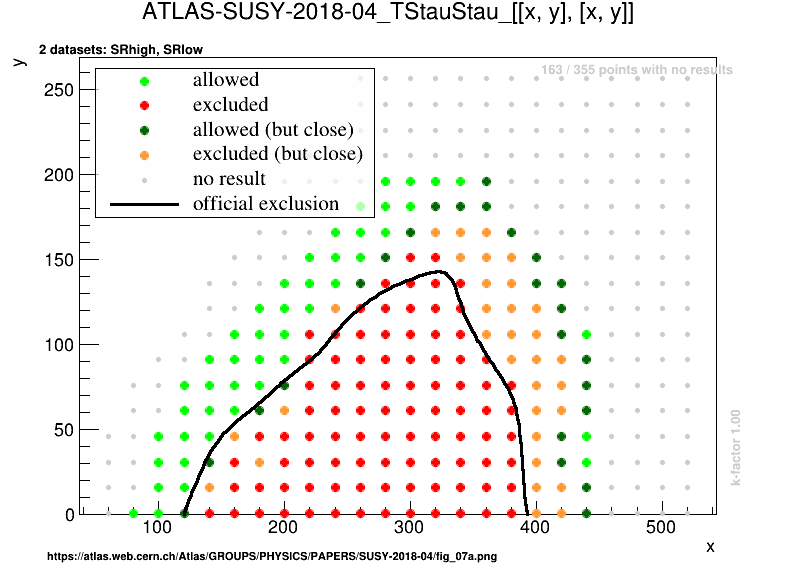
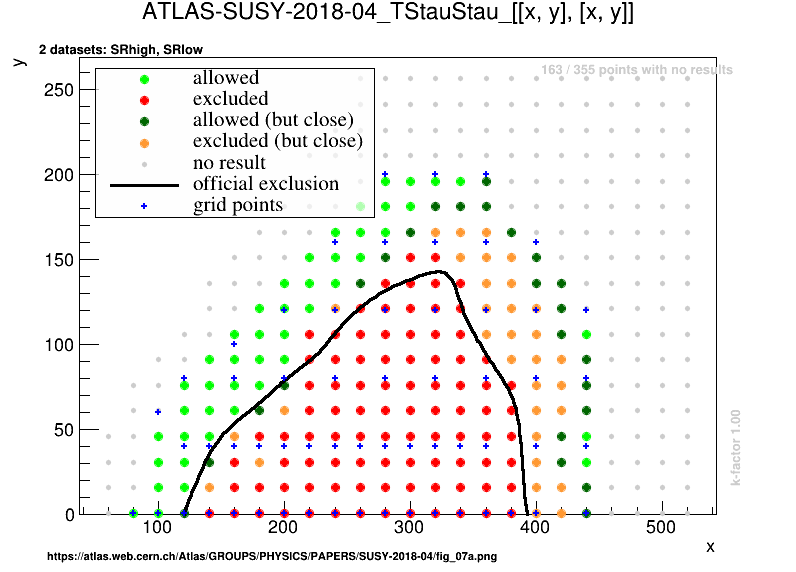
with grid points for eff maps

Changed region(s): [[0.2412, 0.1189, 0.4523, 0.3864], [0.1508, 0.1783, 0.2111, 0.3269], [0.1508, 0.3566, 0.2111, 0.3864]]

diff --git a/docs/Validation123pyhf.md b/docs/Validation123pyhf.md
@@ -36,4 +36,4 @@ The validation procedure for upper limit maps used here is explained in [arXiv:1
 | [ATLAS-SUSY-2018-04](https://atlas.web.cern.ch/Atlas/GROUPS/PHYSICS/PAPERS/SUSY-2018-04/)| [TStauStau](SmsDictionary123pyhf#TStauStau)| 139.0|<a href="https://smodels.github.io/validation/123pyhf/13TeV/ATLAS/ATLAS-SUSY-2018-04-eff/validation/TStauStau_2EqMassAx_EqMassBy_pretty.png"><img src="https://smodels.github.io/validation/123pyhf/13TeV/ATLAS/ATLAS-SUSY-2018-04-eff/validation/TStauStau_2EqMassAx_EqMassBy_pretty.png" /></a>  | <img src="https://smodels.github.io/pics/new.png" /> in 1.2.3pyhf!  |
 | [ATLAS-SUSY-2018-31](https://atlas.web.cern.ch/Atlas/GROUPS/PHYSICS/PAPERS/SUSY-2018-31/)| [T6bbHH](SmsDictionary123pyhf#T6bbHH)| 139.0|<a href="https://smodels.github.io/validation/123pyhf/13TeV/ATLAS/ATLAS-SUSY-2018-31-eff/validation/T6bbHH_2EqMassAx_EqMassBy_EqMassCy-130.0_pretty.png"><img src="https://smodels.github.io/validation/123pyhf/13TeV/ATLAS/ATLAS-SUSY-2018-31-eff/validation/T6bbHH_2EqMassAx_EqMassBy_EqMassCy-130.0_pretty.png" /></a><BR><a href="https://smodels.github.io/validation/123pyhf/13TeV/ATLAS/ATLAS-SUSY-2018-31-eff/validation/T6bbHH_2EqMassAx_EqMassBy_EqMassC60.0_pretty.png"><img src="https://smodels.github.io/validation/123pyhf/13TeV/ATLAS/ATLAS-SUSY-2018-31-eff/validation/T6bbHH_2EqMassAx_EqMassBy_EqMassC60.0_pretty.png" /></a>  | <img src="https://smodels.github.io/pics/new.png" /> in 1.2.3pyhf!  |
 
-This page was created Sun Jan 26 13:01:56 2020
+This page was created Sun Jan 26 16:44:35 2020

diff --git a/docs/ValidationUgly123pyhf.md b/docs/ValidationUgly123pyhf.md
@@ -39,4 +39,4 @@ To [official validation plots](Validation123pyhf)
 | [ATLAS-SUSY-2018-04](https://atlas.web.cern.ch/Atlas/GROUPS/PHYSICS/PAPERS/SUSY-2018-04/)| [TStauStau](SmsDictionary123pyhf#TStauStau)| 139.0| tbd |<a href="https://smodels.github.io/validation/123pyhf/13TeV/ATLAS/ATLAS-SUSY-2018-04-eff/validation/TStauStau_2EqMassAx_EqMassBy.png"><img src="https://smodels.github.io/validation/123pyhf/13TeV/ATLAS/ATLAS-SUSY-2018-04-eff/validation/TStauStau_2EqMassAx_EqMassBy.png" /></a>  | <img src="https://smodels.github.io/pics/new.png" /> in 1.2.3pyhf!  |
 | [ATLAS-SUSY-2018-31](https://atlas.web.cern.ch/Atlas/GROUPS/PHYSICS/PAPERS/SUSY-2018-31/)| [T6bbHH](SmsDictionary123pyhf#T6bbHH)| 139.0| tbd |<a href="https://smodels.github.io/validation/123pyhf/13TeV/ATLAS/ATLAS-SUSY-2018-31-eff/validation/T6bbHH_2EqMassAx_EqMassBy_EqMassC60.0.png"><img src="https://smodels.github.io/validation/123pyhf/13TeV/ATLAS/ATLAS-SUSY-2018-31-eff/validation/T6bbHH_2EqMassAx_EqMassBy_EqMassC60.0.png" /></a><BR><a href="https://smodels.github.io/validation/123pyhf/13TeV/ATLAS/ATLAS-SUSY-2018-31-eff/validation/T6bbHH_2EqMassAx_EqMassBy_EqMassCy-130.0.png"><img src="https://smodels.github.io/validation/123pyhf/13TeV/ATLAS/ATLAS-SUSY-2018-31-eff/validation/T6bbHH_2EqMassAx_EqMassBy_EqMassCy-130.0.png" /></a>  | <img src="https://smodels.github.io/pics/new.png" /> in 1.2.3pyhf!  |
 
-This page was created Sun Jan 26 13:01:58 2020
+This page was created Sun Jan 26 16:44:36 2020
